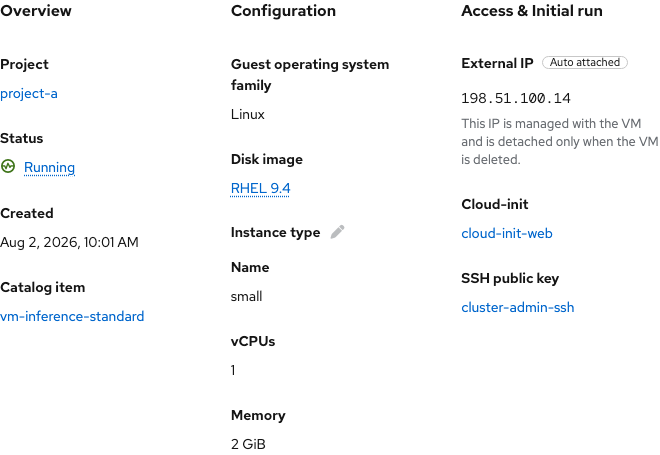
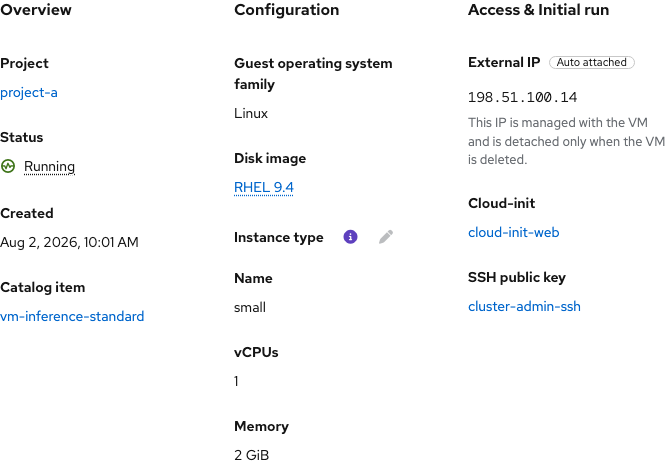
OSAC-7158: refresh VM Overview access screenshots
Assisted-by: Cursor <cursoragent@cursor.com>

diff --git a/docs/vm-overview-ux-handoff.md b/docs/vm-overview-ux-handoff.md
@@ -46,27 +46,19 @@ The VM list uses compact PatternFly pagination in card and table views: an item-
 
 ![Version 0.5 configuration status tooltip](screenshots/latest-ux/vm-config-status-tooltip-0.5.png)
 
-The screenshots below document the earlier 0.4 list and resize layout. The 0.5 screenshots above show the current failure alert and icon-and-text statuses.
-
-![VM list and compact pagination](screenshots/latest-ux/vm-list.png)
-
-![VM table with resize labels and compact pagination](screenshots/latest-ux/vm-table.png)
-
-![Resize instance type menu](screenshots/latest-ux/resize-instance-types.png)
-
 For access, networking, storage, utilization, failure states, and permissions, follow the [Google UX handoff](https://docs.google.com/document/d/1Y8hjgE924owve0VXA3rkKqTYuB4sXKif8KhXyFL3hyQ/edit).
 
 ## Access and initial run examples
 
-These 0.4 captures show the current Overview typography and the distinct auto-attached, manually attached, inline Cloud-init, and Windows Sysprep states. The 0.5 Overview uses the same field typography.
+These 0.5 captures show the auto-attached, manually attached, inline Cloud-init, and Windows Sysprep states.
 
-![Auto-attached external IP and Cloud-init secret](screenshots/latest-ux/vm-overview-auto-0.4.png)
+![Auto-attached external IP and Cloud-init secret](screenshots/latest-ux/vm-overview-auto-0.5.png)
 
-![Manually attached external IP](screenshots/latest-ux/vm-overview-manual-0.4.png)
+![Manually attached external IP](screenshots/latest-ux/vm-overview-manual-0.5.png)
 
-![Inline Cloud-init value](screenshots/latest-ux/vm-overview-inline-0.4.png)
+![Inline Cloud-init value](screenshots/latest-ux/vm-overview-inline-0.5.png)
 
-![Windows Sysprep](screenshots/latest-ux/vm-overview-windows-0.4.png)
+![Windows Sysprep](screenshots/latest-ux/vm-overview-windows-0.5.png)
 
 ## Storage table typography
 
